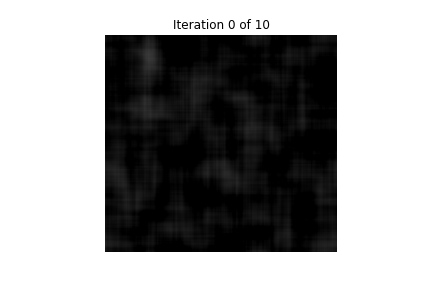
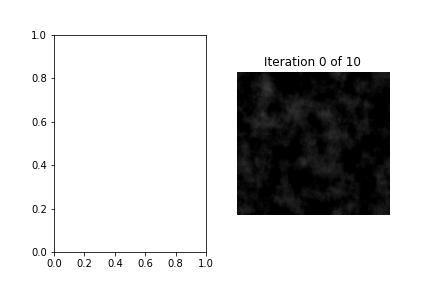
Lab 6 V2 Started
Some progress done on version 2.

diff --git a/Lab 6/lab6V2_nedillon.py b/Lab 6/lab6V2_nedillon.py
@@ -1,0 +1,133 @@
+## CORONASIMULATE  Simulate coronagraph and Gerchberg-Saxton algorithm
+#
+# A simulation of a coronagraph and the Gerchberg-Saxton algorithm, in the
+# context of NASA's Roman Space Telescope, developed to help teach ENCMP
+# 100 Computer Programming for Engineers at the University of Alberta. The
+# program saves output figures to PNG files for subsequent processing.
+#
+# Copyright (c) 2022, University of Alberta
+# Electrical and Computer Engineering
+# All rights reserved.
+#
+# Student name: Nathan Edillon 95%
+# Student CCID: nedillon
+# Others: GOLDEN 2%, TOPGUN 3%
+#
+# To avoid plagiarism, list the names of persons, Version 0 author(s)
+# excluded, whose code, words, ideas, or data you used. To avoid
+# cheating, list the names of persons, excluding the ENCMP 100 lab
+# instructor and TAs, who gave you compositional assistance.
+#
+# After each name, including your own name, enter in parentheses an
+# estimate of the person's contributions in percent. Without these
+# numbers, adding to 100%, follow-up questions will be asked.
+#
+# For anonymous sources, enter pseudonyms in uppercase, e.g., SAURON,
+# followed by percentages as above. Email a link to or a copy of the
+# source to the lab instructor before the assignment is due.
+#
+import matplotlib.pyplot as plt
+import numpy as np
+
+def main():
+    im = loadImage('300_26a_big-vlt-s.jpg')
+    (im,Dphi,mask) = opticalSystem(im,300)
+    (images,errors) = gerchbergSaxton(im,10,Dphi,mask)
+    saveFrames(images,errors)
+
+def loadImage(name):
+    im = plt.imread(name)/255
+    if len(im.shape) > 2:
+        im = (im[:,:,0]+im[:,:,1]+im[:,:,2])/3
+    im[im < 0] = 0
+    im[im > 1] = 1
+    return im
+
+def opticalSystem(im,width):
+    (im, mask) = occultCircle(im,width)
+    (IMa,IMp) = dft2(im)
+    rng = np.random.default_rng(12345)
+    imR = rng.random(im.shape)
+    (_,Dphi) = dft2(imR)
+    im = idft2(IMa,IMp-Dphi)
+    return (im,Dphi,mask)
+
+## Occult Circle
+#  @param im - image data
+#  @param width - desired diameter of circle
+#  @return im - altered image data
+#  @return mask - data of pixels altered with the black circle (boolean)
+#  take an image and place a circle of desired diameter in the center
+def occultCircle(im,width):
+    # im[im.shape[0]//2 - width//2 : im.shape[0]//2 + width//2,
+    #     im.shape[1]//2 - width//2 : im.shape[1]//2 + width//2] = 0
+    mask = np.full(im.shape, False, dtype = bool)
+    for x in range(im.shape[0]//2 - width//2, im.shape[0]//2 + width//2):    
+        for y in range(im.shape[1]//2 - width//2, im.shape[1]//2 + width//2):
+            if np.sqrt((x - im.shape[0]//2)**2 + (y - im.shape[1]//2)**2) <= width//2:
+                im[x, y] = 0
+                mask[x, y] = True
+    return (im, mask)
+
+# (IMa,IMp) = dft2(im) returns the amplitude, IMa, and phase, IMp, of the
+# 2D discrete Fourier transform of a grayscale image, im. The image, a 2D
+# array, must have entries between 0 and 1. The phase is in radians.
+def dft2(im):
+    IM = np.fft.rfft2(im)
+    IMa = np.abs(IM)
+    IMp = np.angle(IM)
+    return (IMa,IMp)
+
+# im = idft2(IMa,IMp) returns a grayscale image, im, with entries between
+# 0 and 1 that is the inverse 2D discrete Fourier transform (DFT) of a 2D
+# DFT specified by its amplitude, IMa, and phase, IMp, in radians.
+def idft2(IMa,IMp):
+    IM = IMa*(np.cos(IMp)+1j*np.sin(IMp))
+    im = np.fft.irfft2(IM)
+    im[im < 0] = 0
+    im[im > 1] = 1
+    return im
+
+## Gerchberg Saxton Algorithm
+#  @param im - image data
+#  @param maxIters - the amount of iterations to create
+#  @param Dphi - phase aberration in the pupil plane of the coronagraph
+#  @return - images - image data post-algorithm
+#  does some math to simulate the GS algorithm, creating a set of images
+#  of a desired amount of iterations
+def gerchbergSaxton(im,maxIters,Dphi,mask):
+    (IMa,IMp) = dft2(im)
+    images = []
+    errors = []
+    for k in range(maxIters+1):
+        print("Iteration %d of %d" % (k,maxIters))
+        im = idft2(IMa,IMp+(k/maxIters*Dphi))
+        images.append(im)
+        error = 0
+        error += im[mask]**2
+        errors.append(error)
+                    
+    return (images,errors)
+
+## Save Frames
+#  @param images - data of a set of images
+#  takes data that forms images to form black and white photos, shows each
+#  iteration of the photos in succession, and saves them as "coronograph"
+#  .png files
+def saveFrames(images,errors):
+    shape = (images[0].shape[0],images[0].shape[1],3)
+    image = np.zeros(shape,images[0].dtype)
+    maxIters = len(images)-1
+    for k in range(maxIters+1):
+        image[:,:,0] = images[k]
+        image[:,:,1] = images[k]
+        image[:,:,2] = images[k]
+        plt.subplot(1, 2, 1)
+        plt.subplot(1, 2, 2)
+        plt.imshow(image)
+        plt.axis('off')
+        plt.title("Iteration %i of %i" % (k, maxIters))
+        plt.savefig('coronagraph'+str(k)+'.png')
+        plt.show()
+
+main()
